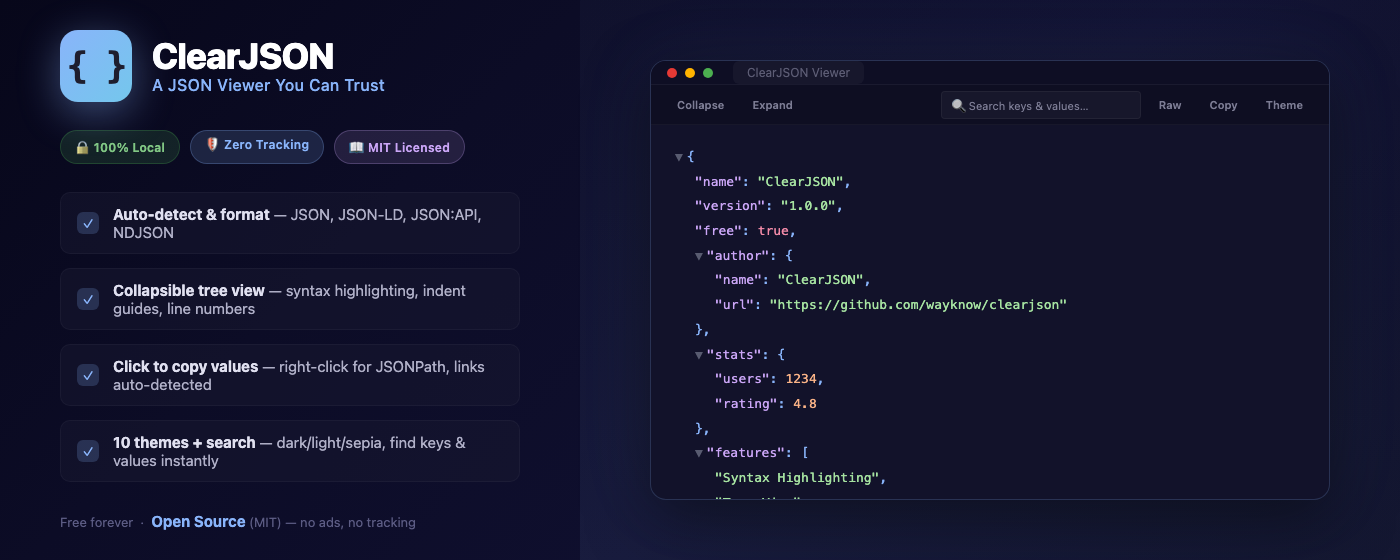
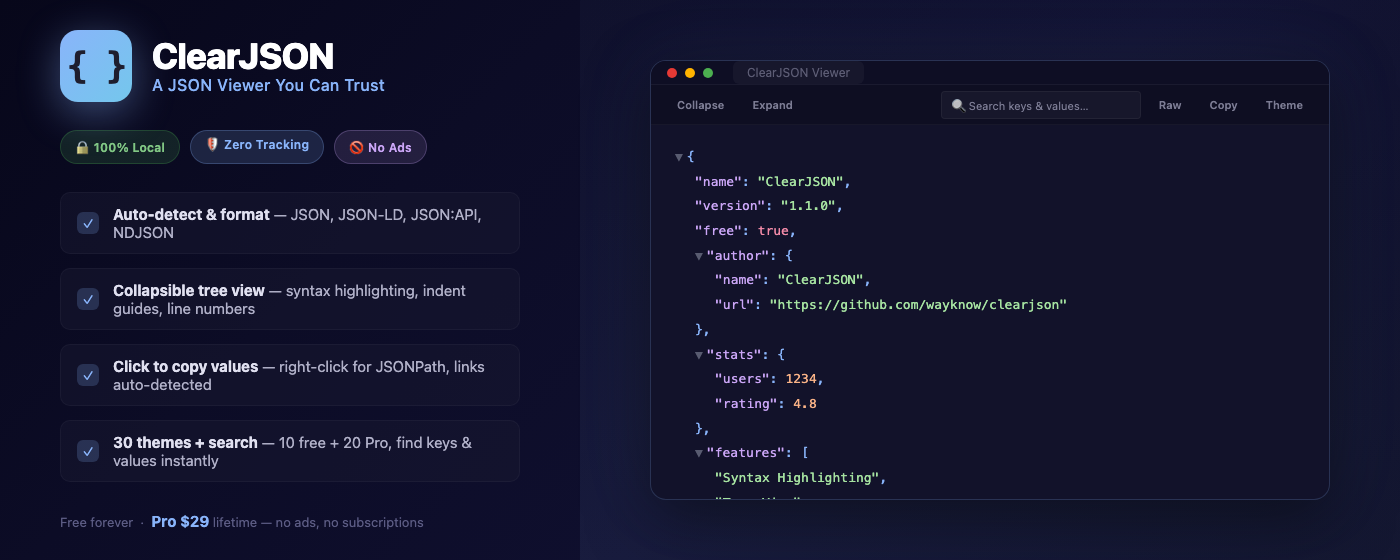
Update promo tiles for v1.1.0: drop open-source claims, add Pro
The product is no longer positioned as open source, so remove all
"Open Source / MIT Licensed" copy from the three CWS promo tiles and
replace with accurate messaging:

- small tile: "Open Source" pill → "No Ads"
- large tile: "MIT Licensed" badge → "No Ads"; feature line "10 themes"
  → "30 themes (10 free + 20 Pro)"; price line → "Pro $29 lifetime";
  mockup version 1.0.0 → 1.1.0, "openSource": true → "themes": 30
- marquee tile: subtitle/pill "10 free themes" → "30 themes"; big CTA and
  footer drop "Open Source (MIT)" in favor of "Pro $29 Lifetime" / "No Ads"

Re-rendered all three PNGs at their required sizes (440x280, 1400x560).
Overflow check: the 1500x660 scroll size is a pre-existing decorative glow
element clipped by body overflow:hidden, not content — same as before.

Changed region(s): [[0.0614, 0.7589, 0.3379, 0.8196], [0.0921, 0.9107, 0.3071, 0.9411], [0.2457, 0.2125, 0.3379, 0.3036]]

diff --git a/promo/large-tile.html b/promo/large-tile.html
@@ -57,7 +57,7 @@
   .badge-privacy {
     background: rgba(137, 180, 250, 0.15); color: #89b4fa; border: 1px solid rgba(137, 180, 250, 0.25);
   }
-  .badge-opensource {
+  .badge-noads {
     background: rgba(203, 166, 247, 0.12); color: #cba6f7; border: 1px solid rgba(203, 166, 247, 0.25);
   }
   .price {
@@ -144,7 +144,7 @@
   <div class="badge-row">
     <span class="badge badge-local">🔒 100% Local</span>
     <span class="badge badge-privacy">🛡 Zero Tracking</span>
-    <span class="badge badge-opensource">📖 MIT Licensed</span>
+    <span class="badge badge-noads">🚫 No Ads</span>
   </div>
 
   <div class="features">
@@ -162,11 +162,11 @@
     </div>
     <div class="feature">
       <div class="check">✓</div>
-      <span><strong>10 themes + search</strong> — dark/light/sepia, find keys &amp; values instantly</span>
+      <span><strong>30 themes + search</strong> — 10 free + 20 Pro, find keys &amp; values instantly</span>
     </div>
   </div>
 
-  <div class="price">Free forever &nbsp;·&nbsp; <b>Open Source</b> (MIT) — no ads, no tracking</div>
+  <div class="price">Free forever &nbsp;·&nbsp; <b>Pro $29</b> lifetime — no ads, no subscriptions</div>
 </div>
 
 <div class="right">
@@ -189,7 +189,7 @@
       <div class="mockup-tree">
         <div class="line"><span class="toggle">▼</span><span class="brace">{</span></div>
         <div class="line indent1"><span class="key">"name"</span><span class="brace">:</span> <span class="str">"ClearJSON"</span><span class="brace">,</span></div>
-        <div class="line indent1"><span class="key">"version"</span><span class="brace">:</span> <span class="str">"1.0.0"</span><span class="brace">,</span></div>
+        <div class="line indent1"><span class="key">"version"</span><span class="brace">:</span> <span class="str">"1.1.0"</span><span class="brace">,</span></div>
         <div class="line indent1"><span class="key">"free"</span><span class="brace">:</span> <span class="bool">true</span><span class="brace">,</span></div>
         <div class="line indent1"><span class="toggle">▼</span><span class="key">"author"</span><span class="brace">:</span> <span class="brace">{</span></div>
         <div class="line indent2"><span class="key">"name"</span><span class="brace">:</span> <span class="str">"ClearJSON"</span><span class="brace">,</span></div>
@@ -205,7 +205,7 @@
         <div class="line indent2"><span class="str">"Image Preview"</span><span class="brace">,</span></div>
         <div class="line indent2"><span class="null">null</span></div>
         <div class="line indent1"><span class="brace">],</span></div>
-        <div class="line indent1"><span class="key">"openSource"</span><span class="brace">:</span> <span class="bool">true</span></div>
+        <div class="line indent1"><span class="key">"themes"</span><span class="brace">:</span> <span class="num">30</span></div>
         <div class="line"><span class="brace">}</span></div>
       </div>
     </div>

diff --git a/promo/marquee-tile.html b/promo/marquee-tile.html
@@ -86,23 +86,23 @@
   <h1><span>ClearJSON</span> — A JSON Viewer You Can Trust</h1>
 
   <div class="subtitle">
-    Open source, local-first, zero tracking. <b>Auto-format</b> any JSON page<br>
-    with <b>syntax highlighting</b>, <b>collapsible tree</b>, and <b>10 free themes</b>.
+    Local-first, zero tracking. <b>Auto-format</b> any JSON page<br>
+    with <b>syntax highlighting</b>, <b>collapsible tree</b>, and <b>30 beautiful themes</b>.
   </div>
 
   <div class="pills">
     <span class="pill">📄 Auto-Detect &amp; Format</span>
     <span class="pill">🌳 Collapsible Tree View</span>
-    <span class="pill highlight">🎨 10 Free Themes</span>
+    <span class="pill highlight">🎨 30 Themes</span>
     <span class="pill">🔍 Search &amp; Navigate</span>
     <span class="pill">🖼 Link + Image Preview</span>
   </div>
 
-  <div class="big-cta">Free Forever · Open Source (MIT) · No Ads · No Tracking</div>
+  <div class="big-cta">Free Forever · Pro $29 Lifetime · No Ads · No Tracking</div>
 
   <div class="bottom-info">
     <span>🔒 100% Local Processing</span><span class="sep">|</span>
-    <span>📖 MIT Licensed</span><span class="sep">|</span>
+    <span>🚫 No Ads</span><span class="sep">|</span>
     <span>🦾 Privacy First</span>
   </div>
 </div>

diff --git a/promo/small-tile.html b/promo/small-tile.html
@@ -59,7 +59,7 @@
       <div class="dot"></div>
       <span>🆓 Free Forever</span>
       <div class="dot"></div>
-      <span>🦾 Open Source</span>
+      <span>🚫 No Ads</span>
     </div>
   </div>
 </div>
